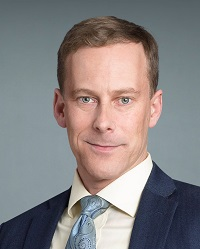
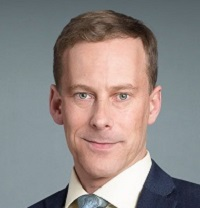
Changes 2

diff --git a/project.html b/project.html
@@ -29,9 +29,9 @@
 				<div class="container">
 					<div class="header-bar">
 						<a href="index.html" class="branding">
-							<img src="images/logo.png" alt="" class="logo">
+							<img src="images/University_of_California_Los_Angeles_logo.jpg" alt="" class="logo">
 							<div class="logo-type">
-								<h1 class="site-title">UCLA Miniature Microscope NeuroNex Center</h1>
+								<h1 class="site-title"><font size = +3>UCLA    Miniature    Microscope    NeuroNex    Center</font></h1>
 								<small class="site-description">Tagline goes here</small>
 							</div>
 						</a>
@@ -52,13 +52,56 @@
 					</div>
 				</div>
 			</header>
+            
+            <div class="hero">
+				<ul class="slides">
+					<li data-bg-image="images/ScopeRender2.jpg"> <!--background image for home page-->
+						<div class="container">
+							<div class="slide-content">
+								<h2 class="slide-title">TO BUILD AND SHARE</h2>
+								<p>New generation miniature microscopes with electrophysiological recording capability </p>
+								<a href="#" class="button">See details</a>
+							</div>
+						</div>
+					</li>
+					<li data-bg-image="images/ScopeRender2.jpg">
+						<div class="container">
+							<div class="slide-content">
+								<h2 class="slide-title">TO BUILD AND SHARE</h2>
+								<p>Silicon microprobes for large-scale electrophysiological recordings</p>
+								<a href="http://masmanidislab.neurobio.ucla.edu/technology.html" class="button">See details</a>
+							</div>
+						</div>
+					</li>
+					<li data-bg-image="images/ScopeRender2.jpg">
+						<div class="container">
+							<div class="slide-content">
+								<h2 class="slide-title">TO BUILD AND SHARE</h2>
+								<p> Real time analysis of feedback capability</p>
+								<a href="#" class="button">See details</a>
+							</div>
+						</div>
+					</li>
+                	<li data-bg-image="images/ScopeRender2.jpg">
+						<div class="container">
+							<div class="slide-content">
+								<h2 class="slide-title">TO BUILD AND SHARE</h2>
+								<p>Light field miniature microscope</p>
+								<a href="#" class="button">See details</a>
+                                
+							</div>
+						</div>
+					</li>
+				</ul>
+			</div>
 
-			<div class="page-head" data-bg-image="images/page-head-3.jpg">
+
+			<!--<div class="page-head" data-bg-image="images/page-head-3.jpg">
 				<div class="container">
 					<h2 class="page-title">Our Projects</h2>
 					<small>Nemo enim ipsam voluptatem quia voluptas sit aspernatur aut odit aut fugit consequuntur magni </small>
 				</div>
-			</div>
+			</div>-->
 
 			<main class="main-content">
 				<div class="fullwidth-block">

diff --git a/links.html b/links.html
@@ -43,8 +43,8 @@
 								<li class="menu-item"><a href="about.html">Faculty</a></li>
 								<li class="menu-item"><a href="collaborators.html">Collaborators</a></li>
 								<li class="menu-item"><a href="projects.html">Our projects</a></li>
-                                <li class="menu-item current-menu-item"><a href="publications.html">Publications</a></li>
-                                <li class="menu-item"><a href="links.html">Links</a></li>
+                                <li class="menu-item"><a href="publications.html">Publications</a></li>
+                                <li class="menu-item current-menu-item"><a href="links.html">Links</a></li>
 								<li class="menu-item"><a href="contact.html">Contact</a></li>
 							</ul>
 						</nav>
@@ -56,23 +56,23 @@
 
 			<div class="page-head" data-bg-image="images/page-head-3.jpg">
 				<div class="container">
-					<h2 class="page-title">Our Publications</h2>
-					<small>Nemo enim ipsam voluptatem quia voluptas sit aspernatur aut odit aut fugit consequuntur magni </small>
+					<h2 class="page-title">Important Links</h2>
+					<small>UCLA open-source microscopy resources</small>
 				</div>
 			</div>
 
 			<main class="main-content">
 				<div class="fullwidth-block">
 					<div class="container">
-						<h2 class="section-title">Summary of publications</h2>
-						<p>More info needed.</p>
+						<h2 class="section-title">Relavent Links</h2>
+						<p></p>
 					</div>
 				</div>
 
 				<div class="fullwidth-block">
 					<div class="container">
                         <ol>
-                        <li><p>Publication 1 (give me links for the publications you need me to add.)<a href="project.html">Learn more</a></p>
+                        <li><h3>Please refer <a href="http://miniscope.org/index.php/Main_Page">Learn more</a></h3>
 									</li>
                         <li><p>Publication 2 <a href="project.html">Learn more</a></p>
 									</li>

diff --git a/projects.html b/projects.html
@@ -29,9 +29,9 @@
 				<div class="container">
 					<div class="header-bar">
 						<a href="index.html" class="branding">
-							<img src="images/73633-old-microscope.png" alt="" class="logo">
+							<img src="images/University_of_California_Los_Angeles_logo.jpg" alt="" class="logo">
 							<div class="logo-type">
-								<h1 class="site-title">UCLA Miniature Microscope NeuroNex Center</h1>
+								<h1 class="site-title"><font size = +3>UCLA    Miniature    Microscope    NeuroNex    Center</font></h1>
 								<!--<small class="site-description">Tagline goes her</small>-->
 							</div>
 						</a>
@@ -44,6 +44,7 @@
 								<li class="menu-item"><a href="collaborators.html">Collaborators</a></li>
 								<li class="menu-item current-menu-item"><a href="projects.html">Our projects</a></li>
                                 <li class="menu-item"><a href="publications.html">Publications</a></li>
+                                <li class="menu-item"><a href="links.html">Links</a></li>
 								<li class="menu-item"><a href="contact.html">Contact</a></li>
 							</ul>
 						</nav>
@@ -124,7 +125,7 @@
 				</div>
 			
 
-				<div class="fullwidth-block" data-bg-color="#edf2f4">
+				<!--<div class="fullwidth-block" data-bg-color="#edf2f4">
 					<div class="container">
 						<div class="subscribe-form">
 							<h2>Join our newsletter</h2>
@@ -134,7 +135,7 @@
 							</form>
 						</div>
 					</div>
-				</div>
+				</div>-->
 
 			</main> <!-- .main-content -->
 

diff --git a/about.html b/about.html
@@ -29,9 +29,9 @@
 				<div class="container">
 					<div class="header-bar">
 						<a href="index.html" class="branding">
-							<img src="images/73633-old-microscope.png" alt="" class="logo">
+							<img src="images/University_of_California_Los_Angeles_logo.jpg" alt="" class="logo">
 							<div class="logo-type">
-								<h1 class="site-title">UCLA Miniature Microscope Neuronex Center</h1>
+								<h1 class="site-title"><font size = +3>UCLA    Miniature    Microscope    NeuroNex    Center</font></h1>
 								<!--<small class="site-description">Tagline goes her</small>-->
 							</div>
 						</a>
@@ -44,6 +44,7 @@
 								<li class="menu-item"><a href="collaborators.html">Collaborators</a></li>
 								<li class="menu-item"><a href="projects.html">Our projects</a></li>
                                 <li class="menu-item"><a href="publications.html">Publications</a></li>
+                                <li class="menu-item"><a href="links.html">Links</a></li>
 								<li class="menu-item"><a href="contact.html">Contact</a></li>
 							</ul>
 						</nav>
@@ -53,7 +54,7 @@
 				</div>
 			</header>
 
-			<div class="page-head" data-bg-image="images/ScopeRender2_modi.jpg">
+			<div class="page-head" data-bg-image="images/page-head-3.jpg">
 				<div class="container">
 					<h2 class="page-title">Faculty</h2>
 					<!--<small>Nemo enim ipsam voluptatem quia voluptas sit aspernatur aut odit aut fugit consequuntur magni </small>-->

diff --git a/collaborators.html b/collaborators.html
@@ -29,9 +29,9 @@
 				<div class="container">
 					<div class="header-bar">
 						<a href="index.html" class="branding">
-							<img src="images/73633-old-microscope.png" alt="" class="logo">
+							<img src="images/University_of_California_Los_Angeles_logo.jpg" alt="" class="logo">
 							<div class="logo-type">
-								<h1 class="site-title">UCLA Miniature Microscope NeuroNex Center</h1>
+								<h1 class="site-title"><font size = +3>UCLA    Miniature    Microscope    NeuroNex    Center</font></h1>
 								<!--<small class="site-description">Tagline goes her</small>-->
 							</div>
 						</a>
@@ -44,6 +44,7 @@
 								<li class="menu-item current-menu-item"><a href="collaborators.html">Collaborators</a></li>
 								<li class="menu-item"><a href="projects.html">Our projects</a></li>
                                 <li class="menu-item"><a href="publications.html">Publications</a></li>
+                                <li class="menu-item"><a href="links.html">Links</a></li>
 								<li class="menu-item"><a href="contact.html">Contact</a></li>
 							</ul>
 						</nav>
@@ -153,7 +154,7 @@
 							</div>
 							<div class="col-md-3">
 								<div class="team">
-									<img src="images/michael-halassa.jpg" alt="" class="team-image">
+									<img src="images/halassa_0.jpg" alt="" class="team-image">
 									<h3 class="team-name">Michael Halassa</h3>
 									<p>MIT</p>
 									<!--<div class="social-links">

diff --git a/index.html b/index.html
@@ -29,7 +29,7 @@
 				<div class="container">
 					<center><div class="header-bar" align="center">
 						<center><a href="index.html" class="branding">
-							<img src="images/73633-old-microscope.png" alt="" class="logo"> <!--Ask for a Logo-->
+							<img src="images/University_of_California_Los_Angeles_logo.jpg" alt="" class="logo"> <!--Ask for a Logo-->
 							<div class="logo-type">
                                 <h1 class="site-title"><font size = +3>UCLA    Miniature    Microscope    NeuroNex    Center</font></h1>
 								<!--<small class="site-description">Tagline goes her</small>--> <!-- Ask for a Tagline-->
@@ -46,7 +46,7 @@
 								<li class="menu-item"><a href="collaborators.html">Collaborators</a></li> <!-- Collaborators-->
 								<li class="menu-item"><a href="projects.html">Projects</a></li> <!--Resources-->
                                 <li class="menu-item"><a href="publications.html">Publications</a></li>
-                                
+                                <li class="menu-item"><a href="links.html">Links</a></li>
                                 <li class="menu-item"><a href="contact.html">Contact</a></li>
                                 </ul></center>
                             </nav></center>

diff --git a/contact.html b/contact.html
@@ -29,9 +29,9 @@
 				<div class="container">
 					<div class="header-bar">
 						<a href="index.html" class="branding">
-							<img src="images/73633-old-microscope.png" alt="" class="logo">
+							<img src="images/University_of_California_Los_Angeles_logo.jpg" alt="" class="logo">
 							<div class="logo-type">
-								<h1 class="site-title">UCLA Miniature Microscope NeuroNex Center</h1>
+								<h1 class="site-title"><font size = +3>UCLA    Miniature    Microscope    NeuroNex    Center</font></h1>
 								<!--<small class="site-description">Tagline goes her</small>-->
 							</div>
 						</a>
@@ -44,6 +44,7 @@
 								<li class="menu-item"><a href="collaborators.html">Collaborators</a></li>
 								<li class="menu-item"><a href="projects.html">Our projects</a></li>
                                 <li class="menu-item"><a href="publications.html">Publications</a></li>
+                                <li class="menu-item"><a href="links.html">Links</a></li>
 								<li class="menu-item current-menu-item"><a href="contact.html">Contact</a></li>
 							</ul>
 						</nav>

diff --git a/style.css b/style.css
@@ -1142,6 +1142,7 @@ float: none;
 align-items: center; 
 text-align-last: center;
     margin: auto;
+    padding-top: 20px;
     
     
 }
@@ -1154,7 +1155,6 @@ text-align-last: center;
     float: none; }
 
 .branding {
-  float: left;
   padding: 15px; }
   .branding .logo, .branding .logo-type {
     display: inline-block;
@@ -1477,8 +1477,8 @@ text-align-last: center;
     margin-bottom: 10px; }
   .team .team-name {
     font-size: 16px;
-    font-size: 1.0666666667em;
-    font-weight: 400; }
+    font-size: 30px;
+    font-weight: 1000; }
   .team .social-links a {
     background: white;
     border: none;
